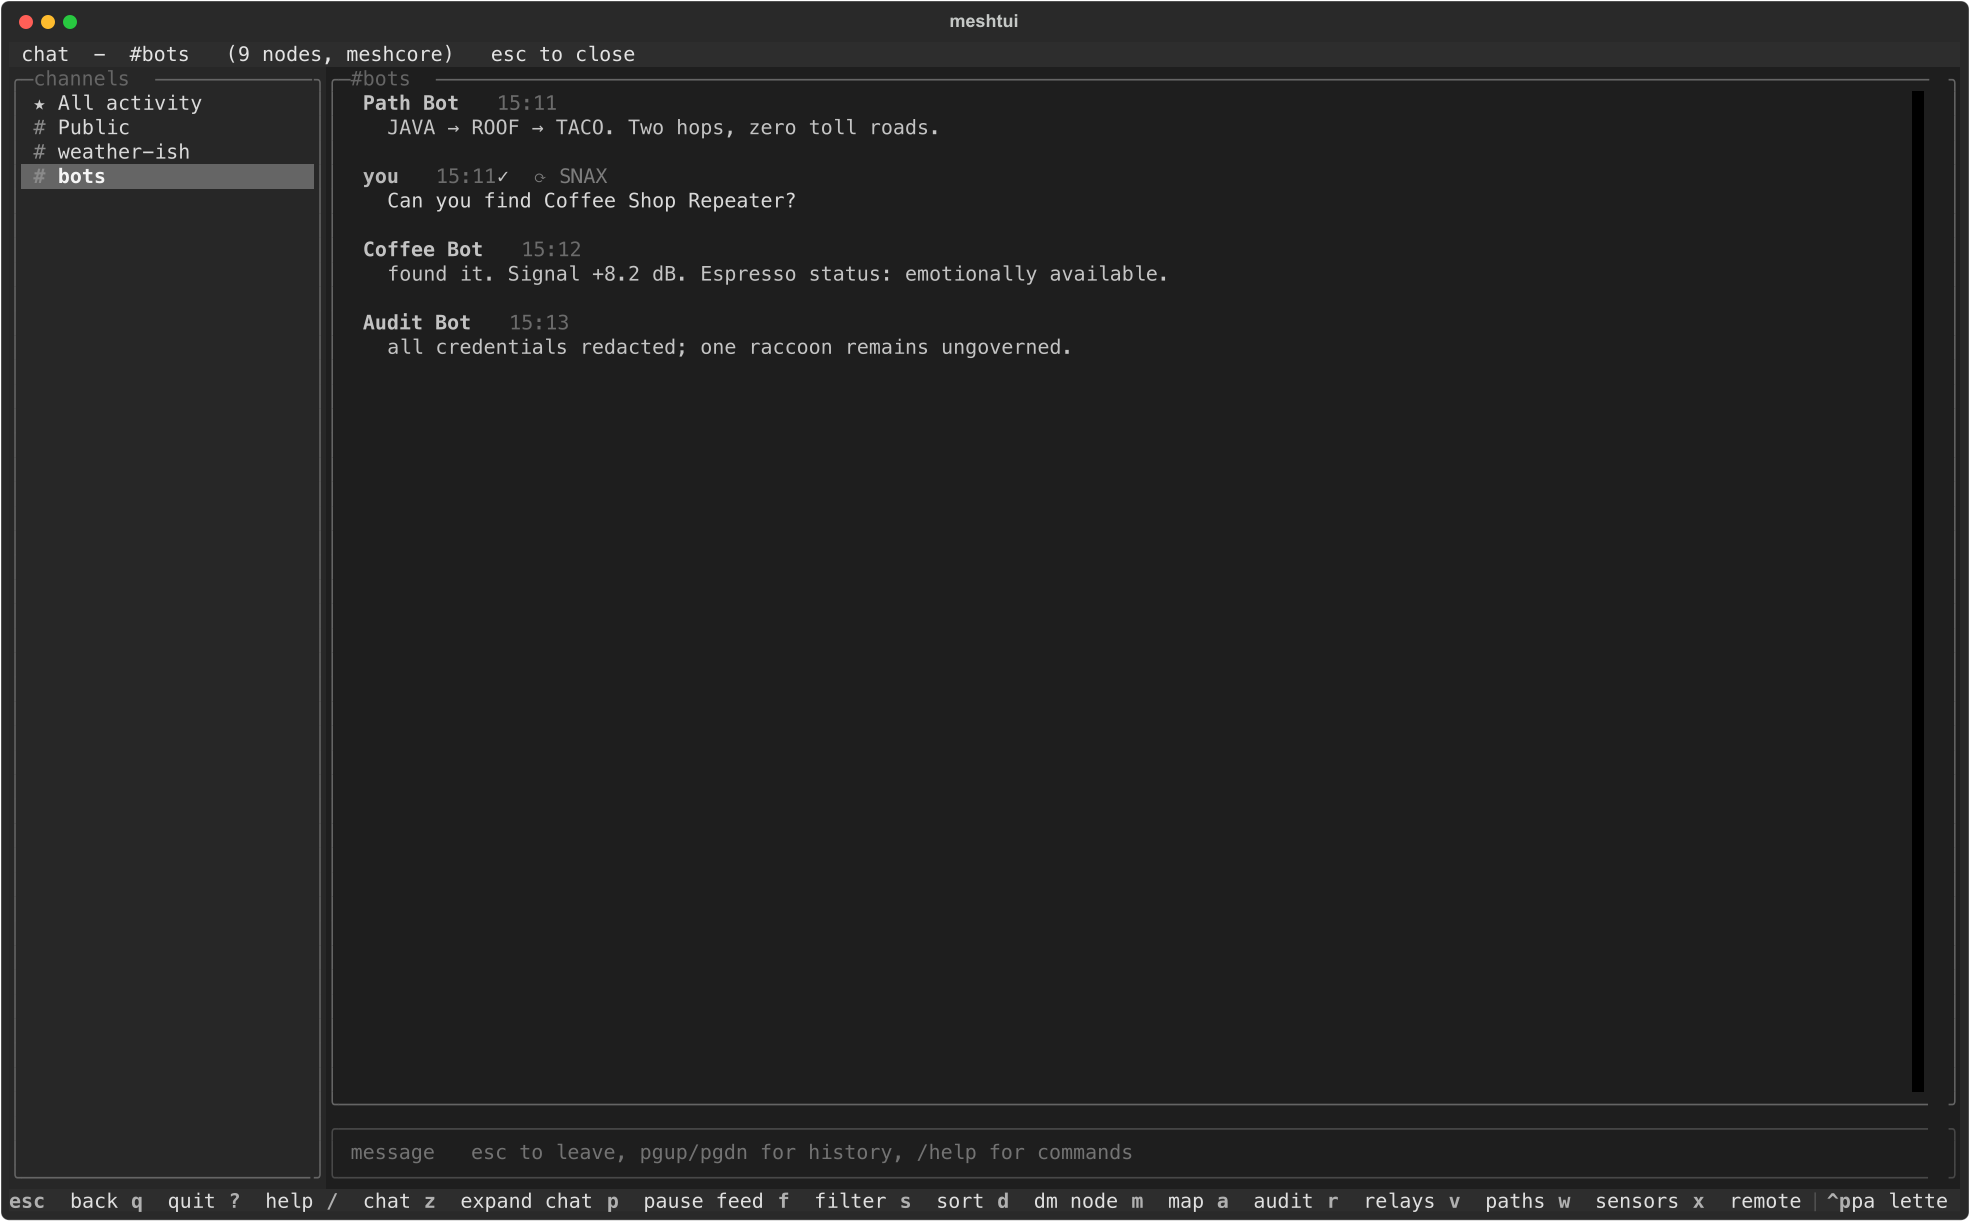
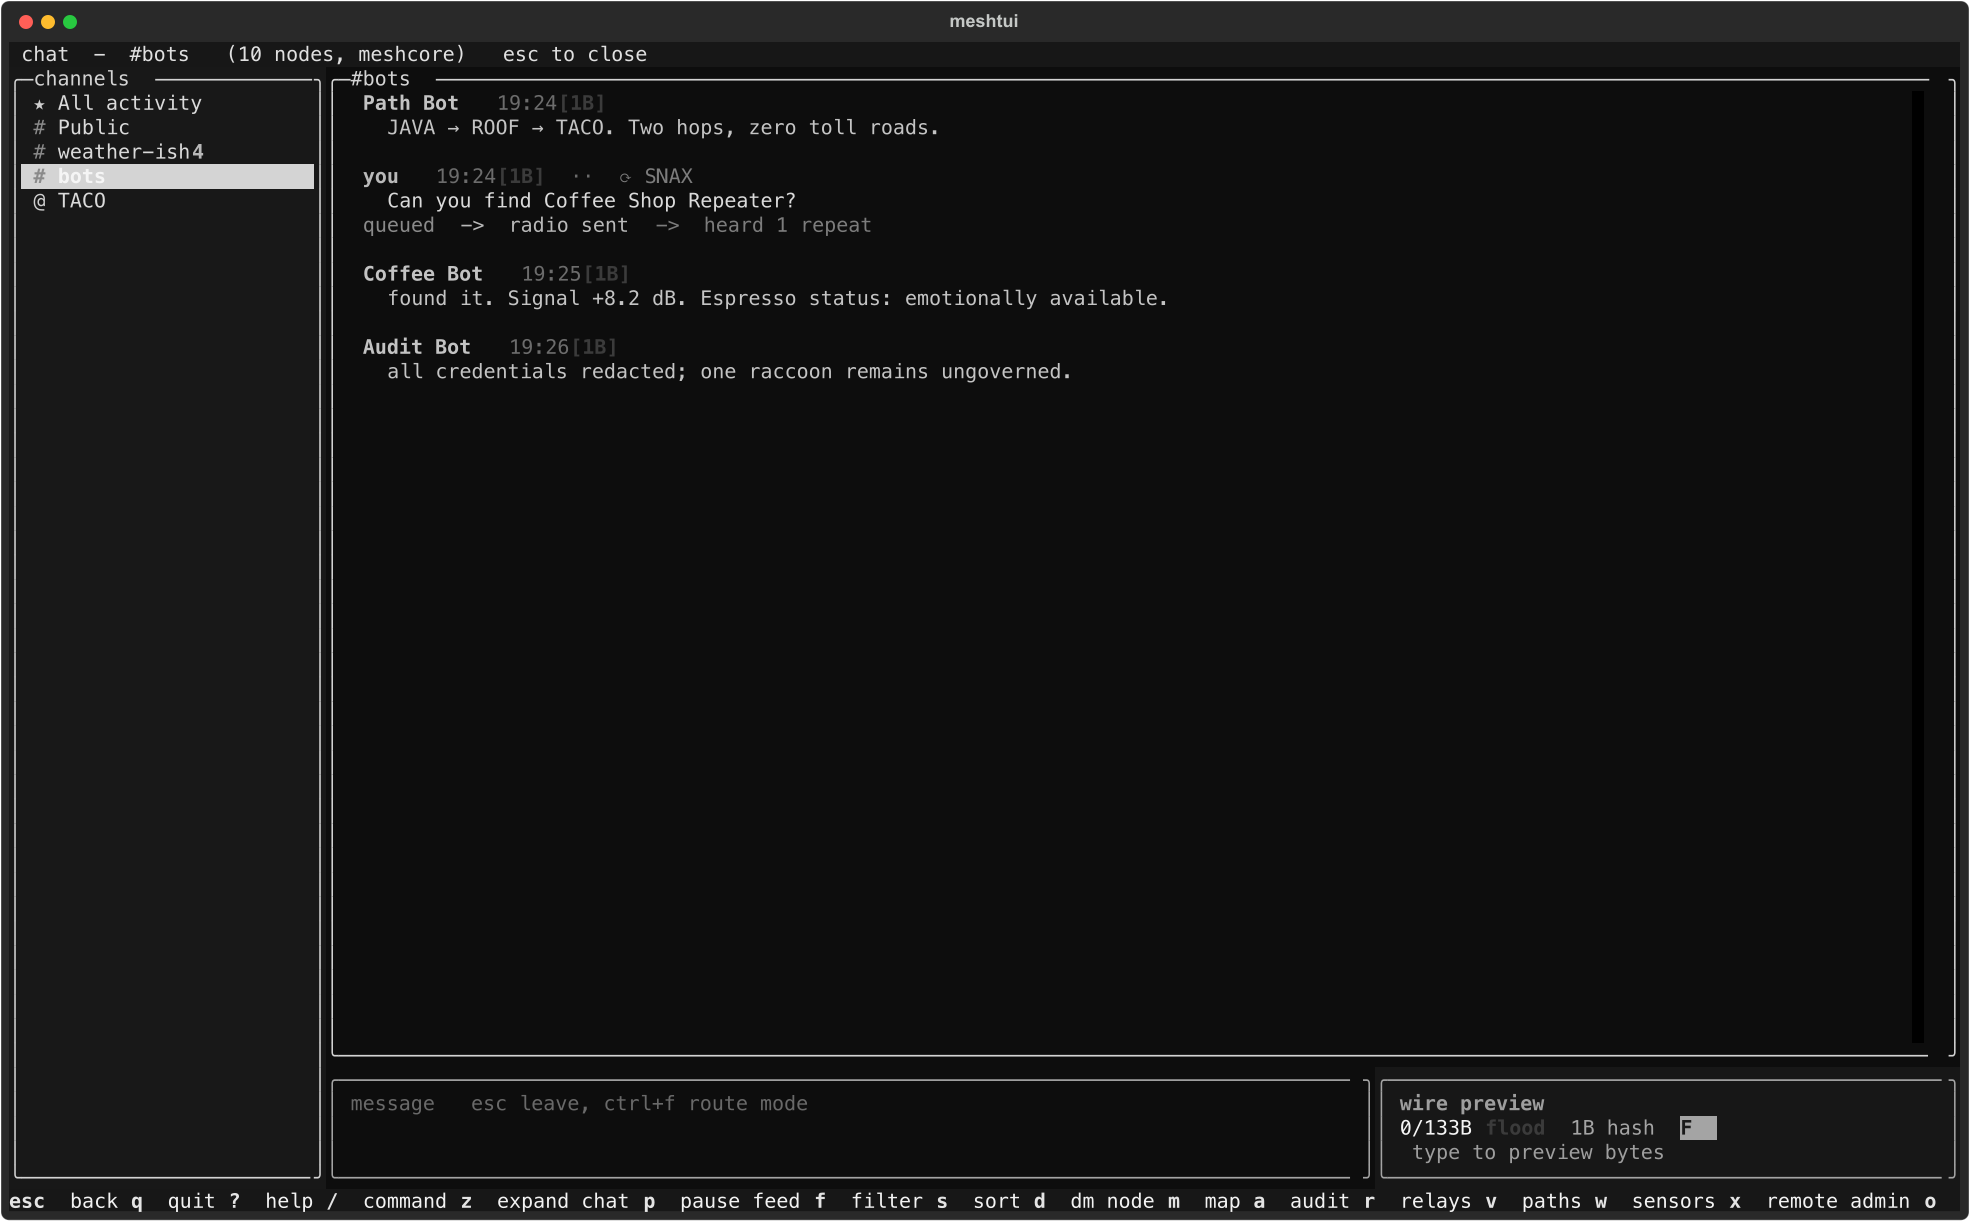
docs: refresh README and UI captures

diff --git a/README.md b/README.md
@@ -25,7 +25,7 @@
   <a href="LICENSE"><img alt="MIT license" src="https://img.shields.io/badge/license-MIT-78dce8?style=flat-square&labelColor=111411"></a>
 </p>
 
-[![MeshTUI dashboard in MeshCore mode with humorous synthetic nodes, decoded packets, mesh statistics, and chat](docs/assets/meshtui-dashboard.png)](docs/assets/meshtui-dashboard.png)
+[![MeshTUI route-focused four-pane operator cockpit with nodes, chat, packet hex, and a selected synthetic MeshCore route](docs/assets/meshtui-dashboard.png)](docs/assets/meshtui-dashboard.png)
 
 <p align="center"><em>The real Textual interface, captured with deterministic synthetic MeshCore data. The radios are fictional; the UI is not.</em></p>
 
@@ -37,12 +37,12 @@ protocol's distinctive capabilities visible.
 
 | | Capability |
 |---|---|
-| **Observe** | Work in four panes—nodes, chat, packet hex, and route/map—with last-heard heat, SNR sparklines, and rolling one-hour airtime. |
-| **Communicate** | Preview wire bytes and route intent before sending, then follow queued → radio sent → repeats → ACK like a mail client. |
-| **Understand routes** | Select traffic to see its ASCII/braille hop chain, map polyline, prefix candidates, round-trip trace, and per-hop SNR. |
+| **Observe** | Work in four panes—nodes, chat, packet hex, and the selected route—with last-heard heat, SNR sparklines, and rolling one-hour airtime. |
+| **Communicate** | Preview wire bytes and route intent before sending. Direct messages can progress from queued → radio sent → repeats → ACK; broadcasts stop at sent and, when available, heard-repeater evidence. |
+| **Understand routes** | Select traffic to see its hop chain, map polyline, prefix candidates, and final-link SNR; run traceroute for outbound/return paths and per-hop SNR. |
 | **Operate remotely** | Authenticate to MeshCore repeaters, merge neighbour tables into the graph, browse room catch-up, and edit flood scope explicitly. |
 | **Automate** | Keep one gateway on the radio and fan it out to TUI/web clients, MQTT, local plugins, notifications, bots, and teaching replays. |
-| **Investigate** | Inspect decoded fields and hex, retain SQLite history, export CSV, and audit Meshtastic traffic against upstream's published channel keys. |
+| **Investigate** | Inspect decoded fields and hex, retain SQLite history, export CSV, review channel exposure in the TUI, and audit captured Meshtastic keys offline. |
 
 ## Protocol support
 
@@ -61,7 +61,8 @@ can always choose explicitly with `--protocol meshcore` or
 | Traceroute and per-hop SNR | ✓ | ✓ |
 | Room post catch-up and flood-scope control | ✓ | — |
 | Relay dependency and mesh health | ✓ | ✓ |
-| Channel security audit | — | ✓ |
+| In-app channel audit | ✓ | ✓ |
+| Offline captured-channel key audit | — | ✓ |
 
 Protocol-specific features stay protocol-specific. MeshTUI does not pretend that a
 MeshCore route is a Meshtastic traceroute, or that a broadcast has an end-to-end
@@ -89,6 +90,8 @@ therefore asynchronous RF traffic rather than an HTTP-style fetch. Signed room
 posts remain grouped under the room thread while showing the original author's
 resolved public-key prefix. Posts use the same durable outbox as direct messages.
 
+[![MeshTUI room-server browser showing retained signed posts from fictional MeshCore rooms](docs/assets/meshtui-rooms.png)](docs/assets/meshtui-rooms.png)
+
 Run `scope` from the command palette to inspect the radio default, apply a
 session-only `#scope`, save a persistent default, or explicitly force unscoped
 flooding. These are separate controls because blank means “use the radio
@@ -97,13 +100,18 @@ carry a visible `F` badge.
 
 ## Operator cockpit
 
-The main screen is always a four-pane workspace: nodes, chat, packet/hex, and
-route/map. `l` cycles balanced, radio, chat, and route-biased layouts; `T` cycles
-phosphor, night-vision, and high-contrast themes. Both choices are stored per
+The main screen is always a four-pane workspace: nodes, chat, packet/hex, and the
+selected route. `l` cycles balanced, radio, chat, and route-biased layouts; `T`
+cycles phosphor, night-vision, and high-contrast themes. Both choices are stored per
 protocol in `~/.config/meshtui/preferences.json`, so a MeshCore deck and a
 Meshtastic station can keep different working arrangements.
 
-Press `/` for the command palette. Useful commands include:
+Press `/` for the searchable command palette. It exposes the operator vocabulary
+without replacing the populated cockpit:
+
+[![MeshTUI slash command palette over the populated four-pane operator cockpit](docs/assets/meshtui-palette.png)](docs/assets/meshtui-palette.png)
+
+Useful commands include:
 
 ```text
 node Hilltop
@@ -124,9 +132,30 @@ Watch expressions are parsed without `eval`; supported fields are `proto`,
 `hop`, `snr`, `chan`, `from`, `to`, `type`, and `text`. Named views, layouts,
 and themes remain local operator preferences and are scoped by protocol.
 
+## Route intelligence
+
+Press `v` to open the observed-path ledger. MeshCore traffic becomes a durable
+record of its origin, path-hash width, resolved repeaters, age, and final-link
+SNR. When the route nodes have positions, the ledger also calculates distance
+and route stretch. Selecting a route draws its hop chain; selecting a hop reveals
+the public-key prefix candidates that could have carried it.
+
+[![MeshTUI observed-path ledger with resolved repeater hops, route stretch, final-link SNR, and a braille route](docs/assets/meshtui-paths.png)](docs/assets/meshtui-paths.png)
+
+Traceroute is kept distinct from passive observation. A completed trace can show
+outbound and return paths with per-hop SNR when the radio reports it; a received
+packet supplies only the final-link SNR.
+
+Press `m` to open the braille position map. Positioned nodes can be shown with
+range rings, direct links, authenticated repeater-neighbour edges, movement
+tracks, and headings. The map can colour nodes by SNR, hop count, or last-heard
+age and supports keyboard pan, zoom, fit, and layer controls.
+
+[![MeshTUI braille position map showing fictional MeshCore nodes, links, movement tracks, and headings](docs/assets/meshtui-map.png)](docs/assets/meshtui-map.png)
+
 ## Chat that behaves like a chat client
 
-[![MeshTUI focused chat view showing synthetic MeshCore channel conversation and repeat status](docs/assets/meshtui-chat.png)](docs/assets/meshtui-chat.png)
+[![MeshTUI focused direct-message view with a wire preview, learned route, repeater receipts, and end-to-end acknowledgement](docs/assets/meshtui-chat.png)](docs/assets/meshtui-chat.png)
 
 The dashboard shows an all-channel activity stream. Press `z` for focused chat;
 `/` opens the operator command palette. MeshTUI provides:
@@ -135,8 +164,10 @@ The dashboard shows an all-channel activity stream. Press `z` for focused chat;
 - unread counts and channel navigation;
 - Tab-completed `@[Name]` mentions, including emoji-led names;
 - a live UTF-8 byte budget for the active protocol;
-- a split wire preview with hops, path-hash width, and auto/flood/direct mode;
-- a queued → sent → heard-repeaters → ACK receipt timeline; and
+- a split wire preview with expected hops and path-hash width when a learned
+  route is known, plus auto/flood/direct mode;
+- a direct-message queued → sent → heard-repeaters → ACK receipt timeline,
+  while broadcasts stop at sent and, when available, heard-repeater evidence; and
 - MeshCore repeater attribution on sent channel messages.
 
 The composer refuses an over-limit payload without discarding the draft. The
@@ -173,29 +204,41 @@ The path and test bots are deterministic and local; they do not need an API key.
 
 ## Quick start
 
-The fastest way to explore MeshTUI does not require a radio:
+The fastest way to explore MeshTUI does not require a repository checkout or a
+radio. The public installer is readable at
+[meshtui.com/install.sh](https://meshtui.com/install.sh), does not use `sudo`,
+and prints the exact executable path when it finishes:
 
 ```sh
-git clone https://github.com/jsaveker/meshtui.git
-cd meshtui
-uv run meshtui --demo
+curl -fsSL https://meshtui.com/install.sh | bash
+~/.local/bin/meshtui --demo
 ```
 
-[uv](https://docs.astral.sh/uv/) installs the required Python version and locked
-dependencies automatically. To use real hardware, connect a companion radio over
-USB and run:
+If the installer prints a different path, use that path instead. To connect real
+hardware, attach a companion radio over USB and run:
 
 ```sh
-uv run meshtui
+~/.local/bin/meshtui
 ```
 
 MeshTUI auto-detects the serial device and protocol. If more than one device is
 present, or you want an explicit configuration:
 
 ```sh
-uv run meshtui --list-ports
-uv run meshtui --port /dev/ttyUSB0 --protocol meshcore
-uv run meshtui --port /dev/ttyACM0 --protocol meshtastic
+~/.local/bin/meshtui --list-ports
+~/.local/bin/meshtui --port /dev/ttyUSB0 --protocol meshcore
+~/.local/bin/meshtui --port /dev/ttyACM0 --protocol meshtastic
+```
+
+### Run from a source checkout
+
+[uv](https://docs.astral.sh/uv/) installs the required Python version and locked
+dependencies for development:
+
+```sh
+git clone https://github.com/jsaveker/meshtui.git
+cd meshtui
+uv run meshtui --demo
 ```
 
 ### Install without uv
